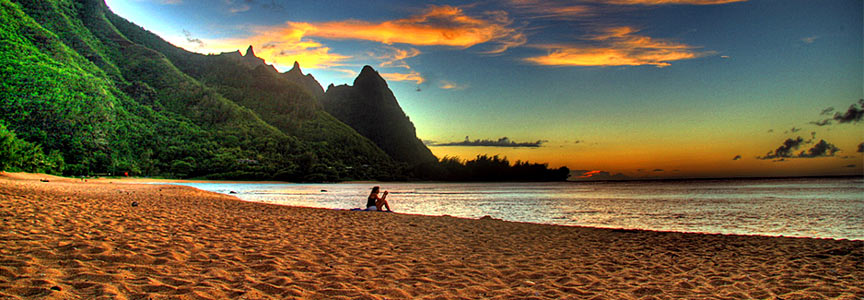
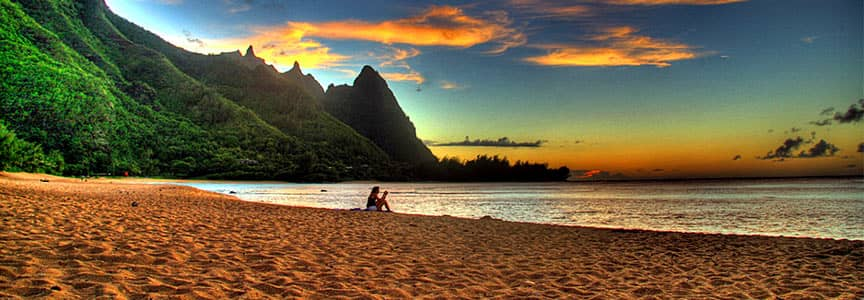
Optimize background image
8 MB -> 470 KB

diff --git a/src/scss/global/base.scss b/src/scss/global/base.scss
@@ -9,7 +9,7 @@ body
 {
 	// Background color picked to match the sky of the background-image so the load isn't as jarring
 	/* @meta {"spritesheet": {"include": false}} */
-	background: $site-background-color url('../images/background.png');
+	background: $site-background-color url('../images/background.jpg');
 	background-repeat: no-repeat;
 	// The percenatage is not pixel-perfect to PSD but is really close
 	// Unfortunately this will increase our browser disparity because of the pixel comparison

diff --git a/dist/css/all-ie7.css b/dist/css/all-ie7.css
@@ -142,7 +142,7 @@ img {
 
 body {
 	/* @meta {"spritesheet": {"include": false}} */
-	background: #397ad1 url('../images/background.png');
+	background: #397ad1 url('../images/background.jpg');
 	background-repeat: no-repeat;
 	background-position: 59% top;
 	font-family: Arial, Helvetica, sans-serif;

diff --git a/dist/css/all-ie8.css b/dist/css/all-ie8.css
@@ -139,7 +139,7 @@ img {
 
 body {
 	/* @meta {"spritesheet": {"include": false}} */
-	background: #397ad1 url('../images/background.png');
+	background: #397ad1 url('../images/background.jpg');
 	background-repeat: no-repeat;
 	background-position: 59% top;
 	font-family: Arial, Helvetica, sans-serif;

diff --git a/dist/css/all-styleguide.css b/dist/css/all-styleguide.css
@@ -163,7 +163,7 @@ img {
 
 body {
 	/* @meta {"spritesheet": {"include": false}} */
-	background: #397ad1 url('../images/background.png');
+	background: #397ad1 url('../images/background.jpg');
 	background-repeat: no-repeat;
 	background-position: 59% top;
 	font-family: Arial, Helvetica, sans-serif;

diff --git a/dist/css/all.css b/dist/css/all.css
@@ -139,7 +139,7 @@ img {
 
 body {
 	/* @meta {"spritesheet": {"include": false}} */
-	background: #397ad1 url('../images/background.png');
+	background: #397ad1 url('../images/background.jpg');
 	background-repeat: no-repeat;
 	background-position: 59% top;
 	font-family: Arial, Helvetica, sans-serif;
